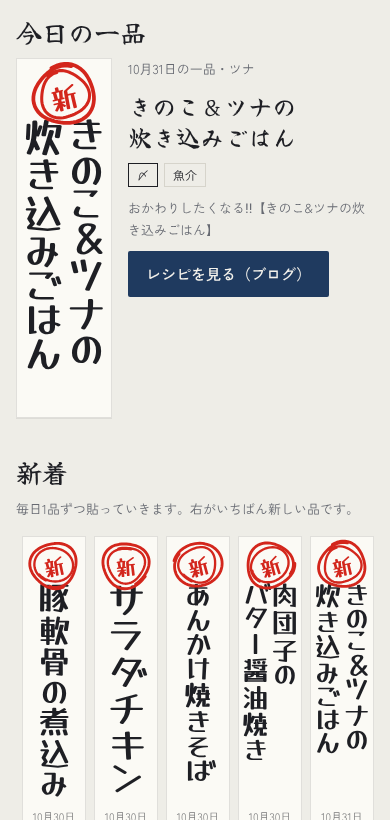
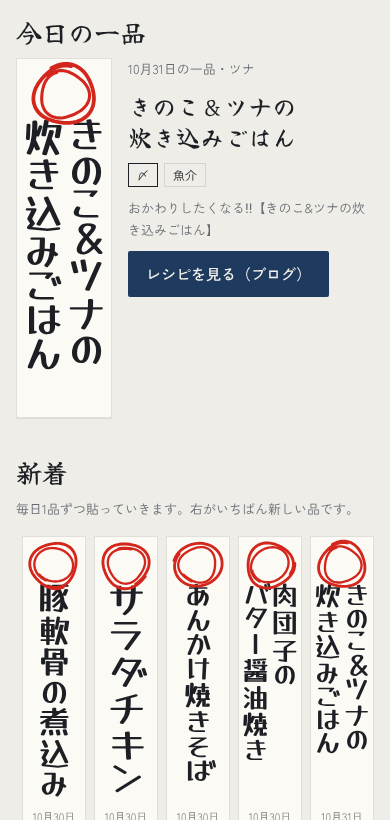
新着の印は二重丸だけにする（「新」の字を消す）
Claude-Session: https://claude.ai/code/session_01NVsEU1RmB8DQTccszYKfjE

diff --git a/site/template.html b/site/template.html
@@ -66,11 +66,10 @@ h2 { font-family: var(--brush); font-weight: 400; font-size: 26px; margin: 0 0 4
 /* 文字の大きさは短冊ごとに JavaScript で決める（stripName）。2行は幅いっぱい、1行は大きめ */
 .tz .name { writing-mode: vertical-rl; text-orientation: upright; font-family: var(--marker); color: var(--ink); line-height: 1.08; letter-spacing: 0; white-space: nowrap }
 .tz:focus-visible, .chip:focus-visible, .tab:focus-visible, .row a:focus-visible, .btn:focus-visible { outline: 3px solid var(--shu); outline-offset: 2px }
-/* 「新」の二重丸。赤い油性マジックで手書きしたように、短冊ごとに傾きと丸のゆがみを変える（newMark）。
+/* 新着の印の二重丸（文字なし）。赤い油性マジックで手書きしたように、短冊ごとに傾きと丸のゆがみを変える（newMark）。
    料理名の1文字目の上の方に少し重ねる */
 .mark { position: absolute; top: 2px; left: 50%; z-index: 1; pointer-events: none; color: var(--red-marker) }
 .mark svg { display: block; width: 100%; height: 100%; overflow: visible }
-.mark text { font-family: var(--marker); fill: currentColor }
 
 /* 今日の1品 */
 .today { display: grid; grid-template-columns: auto 1fr; gap: 16px; align-items: start }
@@ -207,7 +206,7 @@ function splitDish(s, max = 8) {
   }
   return parts.map(p => p.replace(/[・、]$/, ""));
 }
-// 「新」の二重丸。同じ短冊ではいつも同じ形になるよう、id から乱数の種を作る
+// 新着の印の二重丸（文字は入れない）。同じ短冊ではいつも同じ形になるよう、id から乱数の種を作る
 function newMark(id) {
   let seed = [...String(id)].reduce((a, c) => (a * 31 + c.charCodeAt(0)) >>> 0, 7);
   const rnd = () => (seed = (seed * 1103515245 + 12345) >>> 0) / 4294967296;
@@ -226,7 +225,7 @@ function newMark(id) {
   return `<span class="mark" aria-label="新着" style="transform:rotate(${tilt.toFixed(1)}deg)"><svg viewBox="0 0 100 100" aria-hidden="true">
     <polyline points="${ring(44, 0.05)}" fill="none" stroke="currentColor" stroke-width="5.5" stroke-linecap="round" stroke-linejoin="round"/>
     <polyline points="${ring(35, 0.06)}" fill="none" stroke="currentColor" stroke-width="4.5" stroke-linecap="round" stroke-linejoin="round"/>
-    <text x="50" y="52" text-anchor="middle" dominant-baseline="central" font-size="40">新</text></svg></span>`;
+    </svg></span>`;
 }
 // 短冊の料理名。w・h は文字を書ける幅と高さ（px）。手書きの品書きらしく、
 // 2行は2行で幅いっぱいに、1行は2行の時より大きく（幅の8割）書く。縦に入りきらなければ小さくする

diff --git a/STATUS.md b/STATUS.md
@@ -56,7 +56,7 @@
 
 - 2026-10-31: PR #11 をマージ。短冊のフォントを **Yusei Magic**（太いマジックの手書き）に決定。文字の大きさは短冊ごとに決める: 2行は2行で幅いっぱい、1行は2行より大きく（幅の8割）、縦に入りきらなければ小さく → ドラフト `design/strip-draft-yusei-magic.png`
 
-- 2026-10-31: PR #12 をマージ。短冊の「新」の印を、赤い油性マジックで手書きした二重丸にした（画像ではなくページ側の SVG で描く。短冊ごとに傾き −6〜−18度と丸のゆがみを変え、料理名の1文字目の上の端に少し重ねる）→ ドラフト `design/strip-draft-new-mark.png`
+- 2026-10-31: PR #12 をマージ。短冊の「新」の印を、赤い油性マジックで手書きした二重丸だけにした（「新」の字は入れない）（画像ではなくページ側の SVG で描く。短冊ごとに傾き −6〜−18度と丸のゆがみを変え、料理名の1文字目の上の端に少し重ねる）→ ドラフト `design/strip-draft-new-mark.png`
 
 ## 次にやること
 

diff --git a/design/README.md b/design/README.md
@@ -34,4 +34,4 @@
 
 ## 短冊の「新」の印
 
-赤い油性マジック（`#D3261C`）で手書きした二重丸。画像ではなく `site/template.html` の `newMark()` で SVG として描く。短冊ごとに傾き（−6〜−18度）と丸のゆがみを変え、スタンプのように同じ形が並ばないようにしている（同じ短冊はいつも同じ形）。ドラフトは `strip-draft-new-mark.png`。
+赤い油性マジック（`#D3261C`）で手書きした二重丸だけ（「新」の字は入れない）。画像ではなく `site/template.html` の `newMark()` で SVG として描く。短冊ごとに傾き（−6〜−18度）と丸のゆがみを変え、スタンプのように同じ形が並ばないようにしている（同じ短冊はいつも同じ形）。ドラフトは `strip-draft-new-mark.png`。
